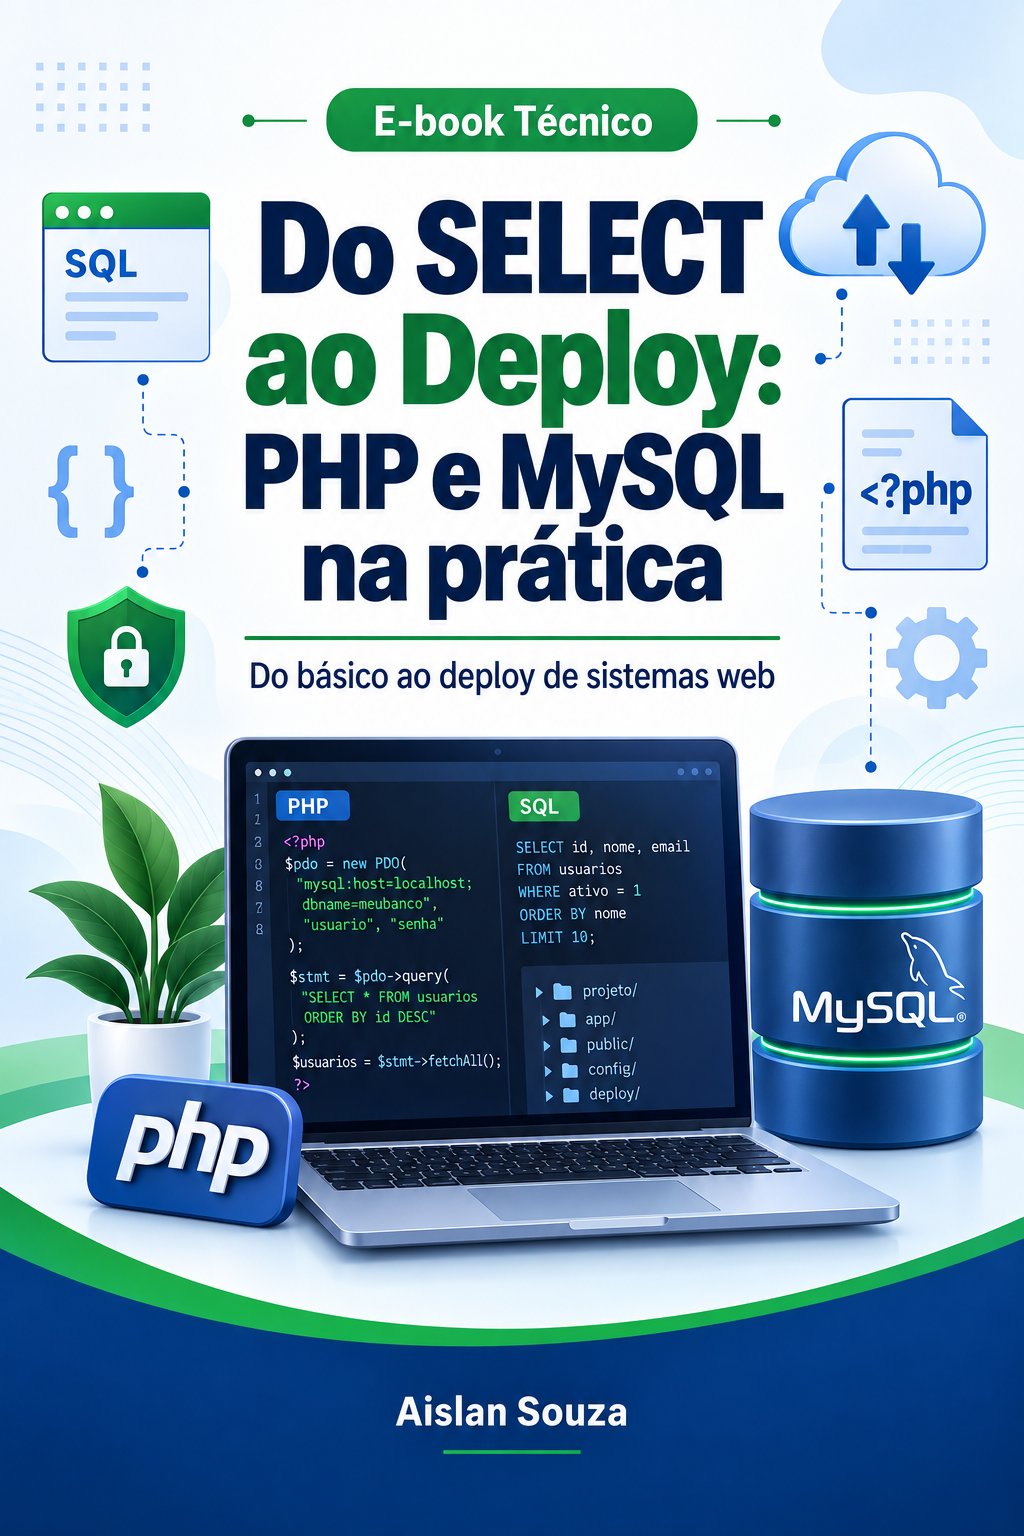
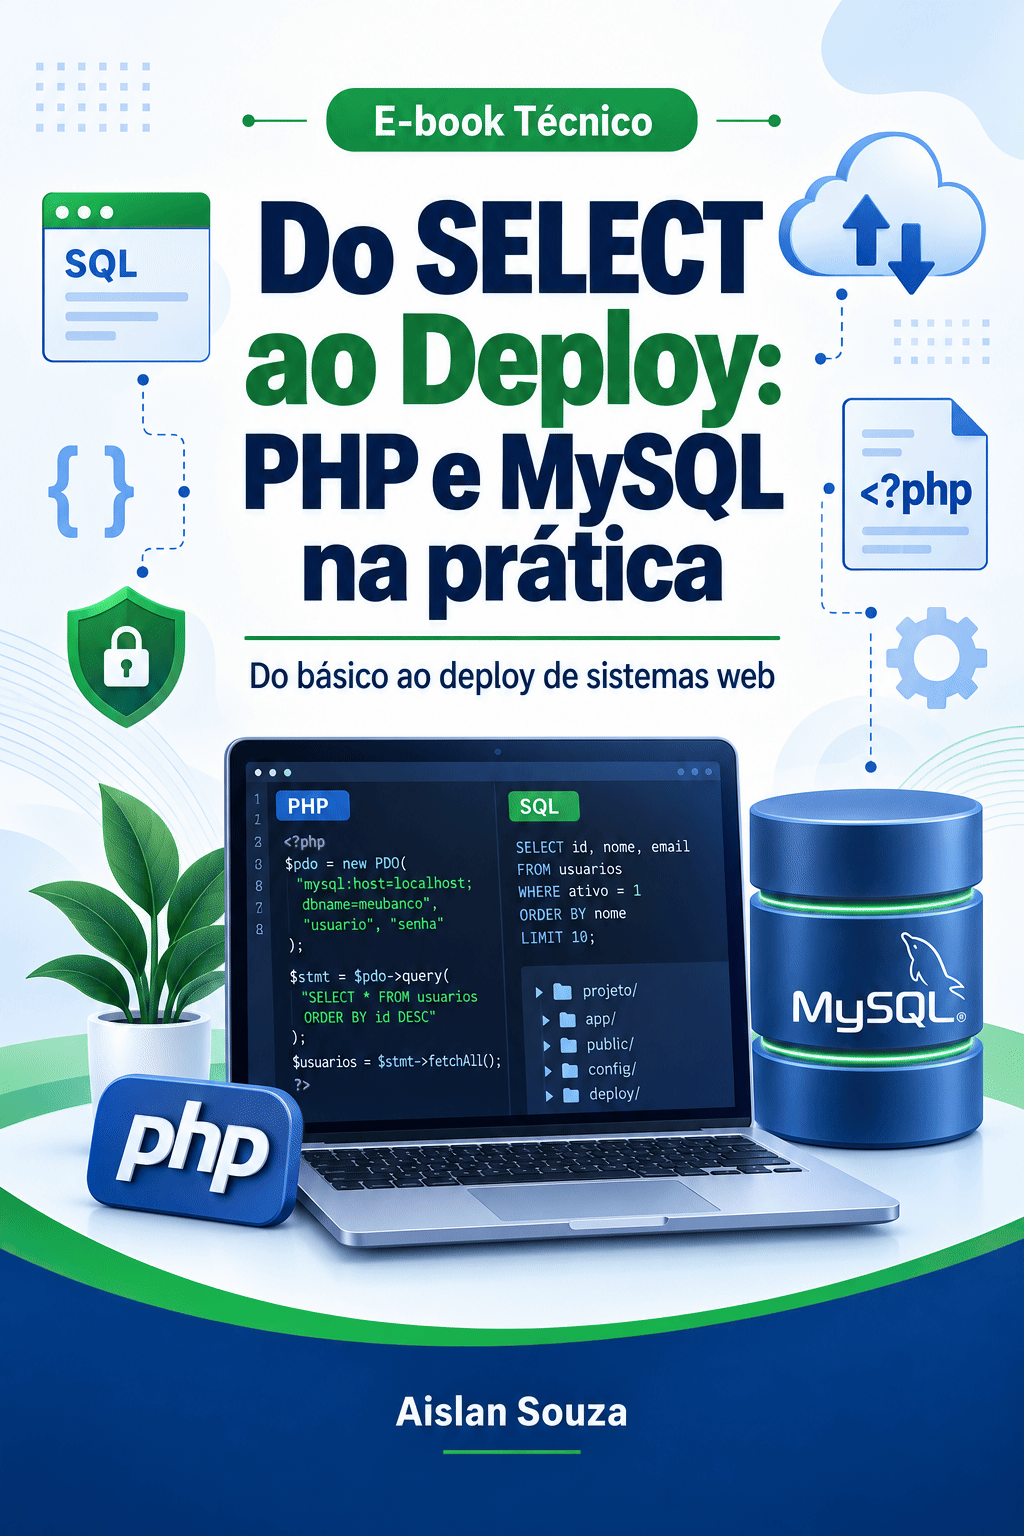
Add files via upload

diff --git a/guia-sql.html b/guia-sql.html
@@ -1,4 +1,4 @@
-<title>Guia Prático de Consultas SQL</title>
+<title>Do SELECT ao Deploy: PHP e MySQL na prática</title>
 <link rel="preconnect" href="https://fonts.googleapis.com">
 <link rel="preconnect" href="https://fonts.gstatic.com" crossorigin>
 <link rel="stylesheet" href="https://fonts.googleapis.com/css2?family=Archivo:wght@600;700;800&family=JetBrains+Mono:wght@400;700&family=Source+Sans+3:ital,wght@0,400;0,600;1,400&display=swap">
@@ -147,13 +147,20 @@
   .price-inline{font-family:var(--mono);font-size:var(--step--1);color:var(--muted);line-height:1.5}
   .price-inline b{display:block;font-family:var(--display);font-size:1.5rem;color:var(--text);letter-spacing:-.02em}
 
-  .book{position:relative;margin-inline:-4%}
-  .book img{width:100%}
+  .book{position:relative}
+  .book img{
+    border-radius:3px 8px 8px 3px;
+    border:1px solid var(--line);
+    box-shadow:
+      -6px 0 0 0 #0a1c3d,
+      -7px 0 0 0 var(--line),
+      28px 34px 70px -24px rgba(0,0,0,.85);
+  }
   .book-tag{
     position:absolute;
     left:50%;
     transform:translate(-50%,-50%);
-    bottom:-0.6rem;
+    bottom:-1.4rem;
     background:var(--ink-2);
     border:1px solid var(--line);
     color:var(--muted);
@@ -521,8 +528,8 @@
       </div>
 
       <figure class="book" style="margin:0">
-        <img src="hero-livros.png" alt="Frente e verso do e-book Guia Prático de Consultas SQL, de Aislan Souza" width="1200" height="1000">
-        <figcaption class="book-tag">Frente e verso · 27 módulos + bônus</figcaption>
+        <img src="capa.png" alt="Capa do e-book Do SELECT ao Deploy: PHP e MySQL na prática, de Aislan Souza" width="1024" height="1536">
+        <figcaption class="book-tag">E-book + bônus · 27 módulos</figcaption>
       </figure>
     </div>
 
@@ -576,7 +583,7 @@ user <span class="s">'root'</span>@<span class="s">'localhost'</span> (using pas
     <div class="solution-grid">
       <div>
         <h2>Escrito de programador para programador.</h2>
-        <p class="lead muted" style="margin-top:1.4rem">O <strong>Guia Prático de Consultas SQL</strong> pega você no <code style="font-family:var(--mono);font-size:.9em;color:var(--blue)">SELECT *</code> e te deixa no sistema publicado. Sem teoria solta, sem promessa milagrosa: cada módulo é um problema real com o código ao lado.</p>
+        <p class="lead muted" style="margin-top:1.4rem">O <strong>Do SELECT ao Deploy: PHP e MySQL na prática</strong> pega você no <code style="font-family:var(--mono);font-size:.9em;color:var(--blue)">SELECT *</code> e te deixa no sistema publicado. Sem teoria solta, sem promessa milagrosa: cada módulo é um problema real com o código ao lado.</p>
         <ul class="checks">
           <li>Do básico (<b>SELECT, INSERT, UPDATE, DELETE</b>) às otimizações de performance com índices e EXPLAIN.</li>
           <li>Todo exemplo em <b>PHP + PDO com Prepared Statements</b> — o jeito certo desde a primeira linha.</li>
@@ -782,7 +789,7 @@ $stmt-&gt;execute();</pre>
       <div class="offer-list">
         <h3>O que entra no pacote</h3>
         <ul>
-          <li><span>E-book Guia Prático de Consultas SQL · 27 módulos</span><span>R$ 67</span></li>
+          <li><span>E-book Do SELECT ao Deploy: PHP e MySQL na prática · 27 módulos</span><span>R$ 67</span></li>
           <li><span>Bônus · Template estrutural com Auth e Repository</span><span>R$ 47</span></li>
           <li><span>Bônus · Cheat Sheets de SQL e PHP/PDO</span><span>R$ 27</span></li>
           <li class="total"><span>Valor somado</span><span>R$ 141</span></li>
@@ -870,7 +877,7 @@ $stmt-&gt;execute();</pre>
       </div>
     </div>
     <div class="foot-base">
-      <span>© 2026 Aislan Souza · Guia Prático de Consultas SQL</span>
+      <span>© 2026 Aislan Souza · Do SELECT ao Deploy: PHP e MySQL na prática</span>
       <span>Pagamento processado pela Hotmart</span>
       <span><a href="./">Outros materiais</a></span>
     </div>
@@ -895,7 +902,7 @@ $stmt-&gt;execute();</pre>
     phone="5531953475617"
     href="https://pay.hotmart.com/O107578540B?off=48b5w56c"
     producerName="Aislan da Silva Souza"
-    productName="Modelagem de Banco de Dados MySQL na Prática"
+    productName="Do SELECT ao Deploy: PHP e MySQL na prática"
     productId="ODUwNTU5Nw=="
     btnSize="40px"
     extraInfo=""

diff --git a/index.html b/index.html
@@ -227,14 +227,14 @@
 
     <article class="item">
       <div class="capa">
-        <img src="capa.png" alt="Capa do Guia Prático de Consultas SQL" width="1024" height="1536">
+        <img src="capa.png" alt="Capa do e-book Do SELECT ao Deploy: PHP e MySQL na prática" width="1024" height="1536">
       </div>
       <div class="meta">
         <div class="linha">
           <span class="id">#01 · E-book</span>
           <span class="pill on">Disponível</span>
         </div>
-        <h3>Guia Prático de Consultas SQL</h3>
+        <h3>Do SELECT ao Deploy: PHP e MySQL na prática</h3>
         <p>Do básico às otimizações de performance. 27 módulos e 8 bônus que vão do banco vazio no phpMyAdmin ao JOIN otimizado e ao sistema publicado, com código comentado em cada etapa.</p>
         <ul class="tags">
           <li>SQL</li><li>PHP</li><li>MySQL</li><li>PDO</li><li>JOINs</li><li>Índices</li><li>Segurança</li><li>Deploy</li>
@@ -302,7 +302,7 @@
     phone="5531953475617"
     href="https://pay.hotmart.com/O107578540B?off=48b5w56c"
     producerName="Aislan da Silva Souza"
-    productName="Modelagem de Banco de Dados MySQL na Prática"
+    productName="Do SELECT ao Deploy: PHP e MySQL na prática"
     productId="ODUwNTU5Nw=="
     btnSize="40px"
     extraInfo=""
